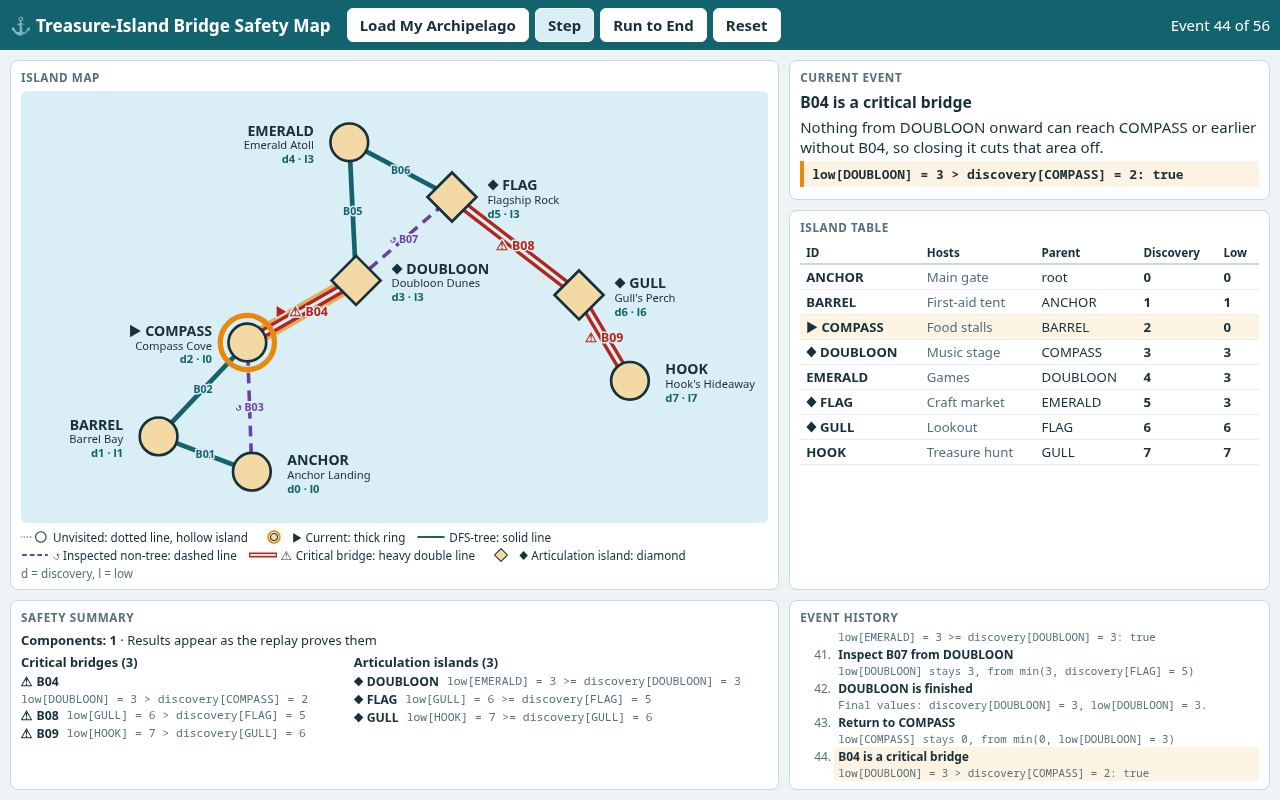
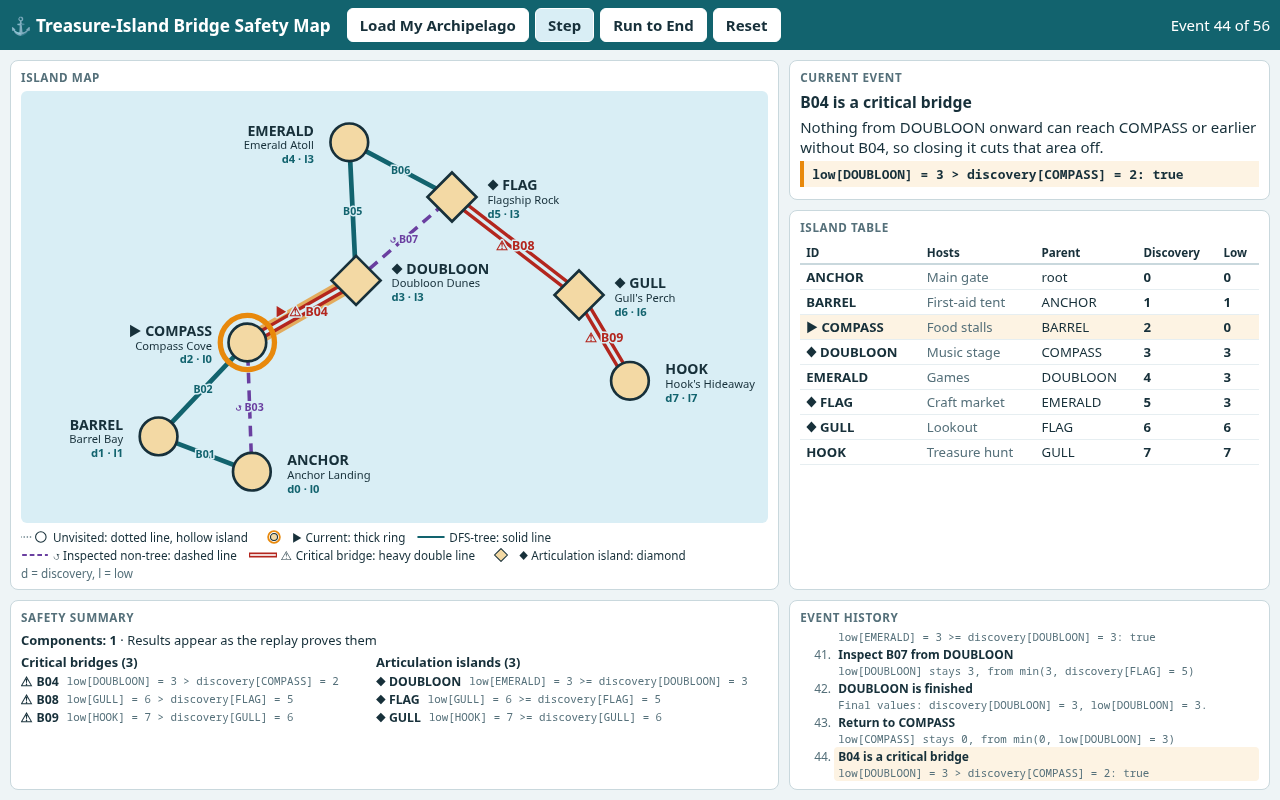
Keep each critical-item proof on one line
The B04 proof wrapped onto a second line at 1280x800, so its numbers sat under
the bridge ID instead of beside it, unlike every other row in the summary.

Why these choices:
- Rebalance the two columns rather than widen the summary panel: the panel
  shares its row with the event history, and the articulation proofs only
  need a little more room than the bridge proofs because island IDs are longer.
- A slightly smaller proof font: the ID is what a volunteer scans for, and the
  proof is read second, so it can give way. The event history already uses
  this size for its numeric text.
- Screenshots refreshed in this commit: they are evidence of the current page,
  and the README shows one of them.

Measured in Chrome: no proof wraps at 1280, 1440 or 1920 wide. At 1000 and 1100
some still wrap, and stay readable. The browser walkthrough passes 34 of 34 and
its text output is unchanged.

Changed region(s): [[0.0, 0.8125, 0.5625, 0.9375]]

diff --git a/styles.css b/styles.css
@@ -456,10 +456,10 @@ td {
   gap: 2px 14px;
 }
 
-/* Articulation proofs are longer, because the rule's >= takes an extra character. */
+/* Articulation proofs are longer, because island IDs are longer than bridge IDs. */
 @media (min-width: 1000px) {
   .summary-columns {
-    grid-template-columns: minmax(0, 1fr) minmax(0, 1.3fr);
+    grid-template-columns: minmax(0, 1fr) minmax(0, 1.15fr);
   }
 }
 
@@ -485,7 +485,7 @@ h3 {
 .proof {
   color: var(--muted);
   font-family: ui-monospace, 'Cascadia Mono', Menlo, Consolas, monospace;
-  font-size: 0.76rem;
+  font-size: 0.72rem;
 }
 
 .summary-empty {
